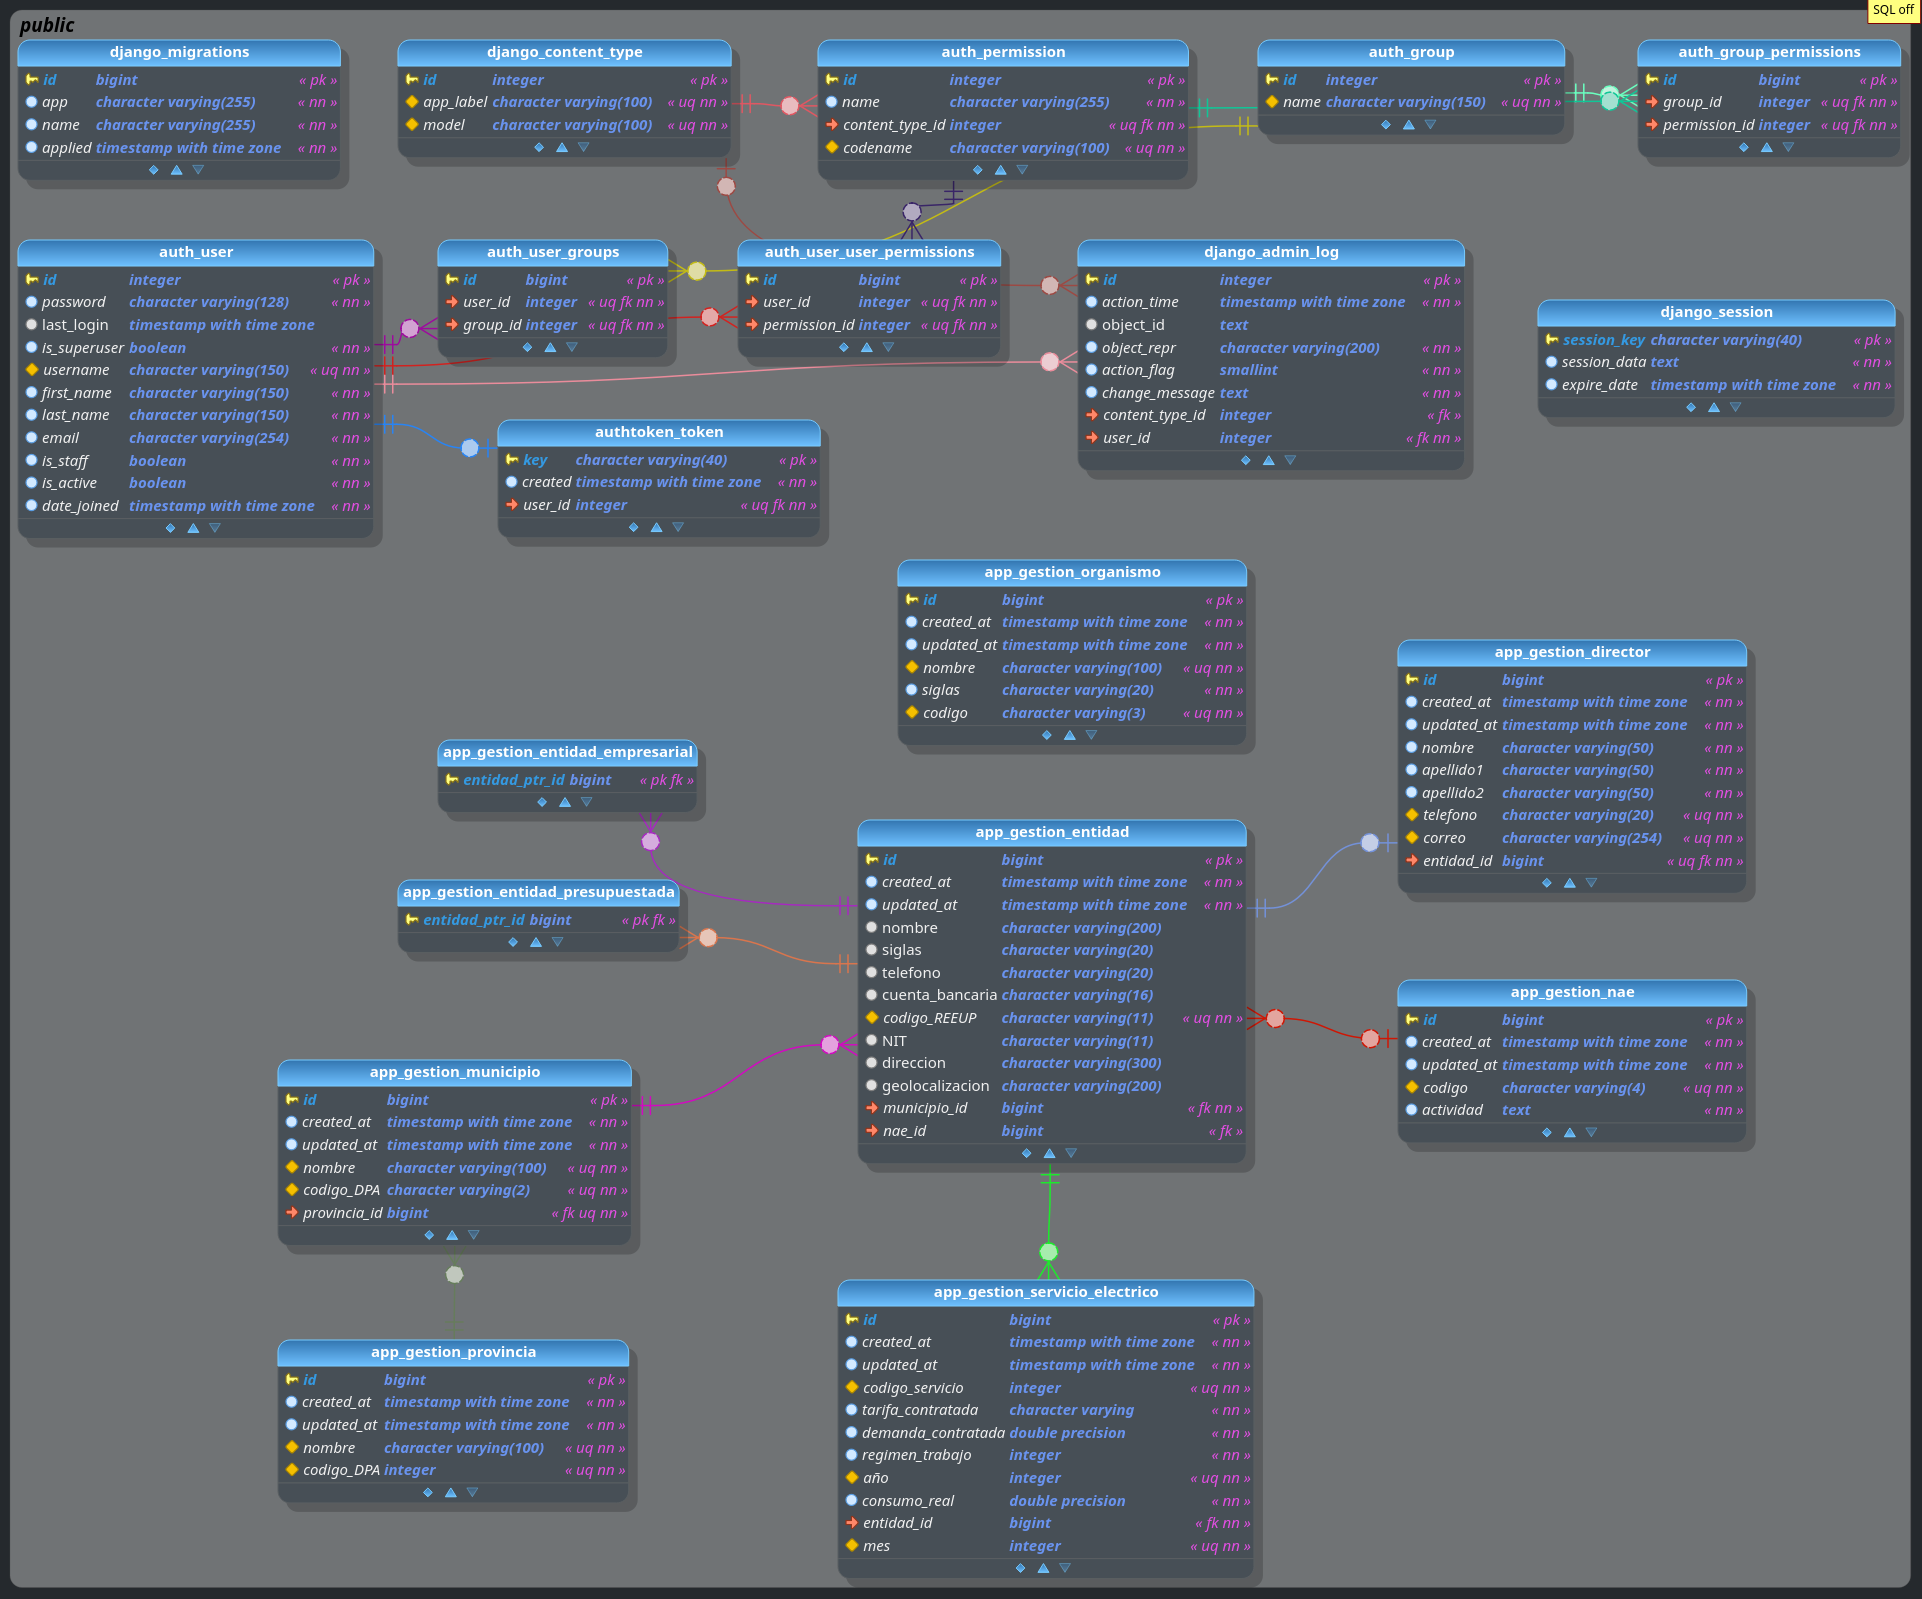
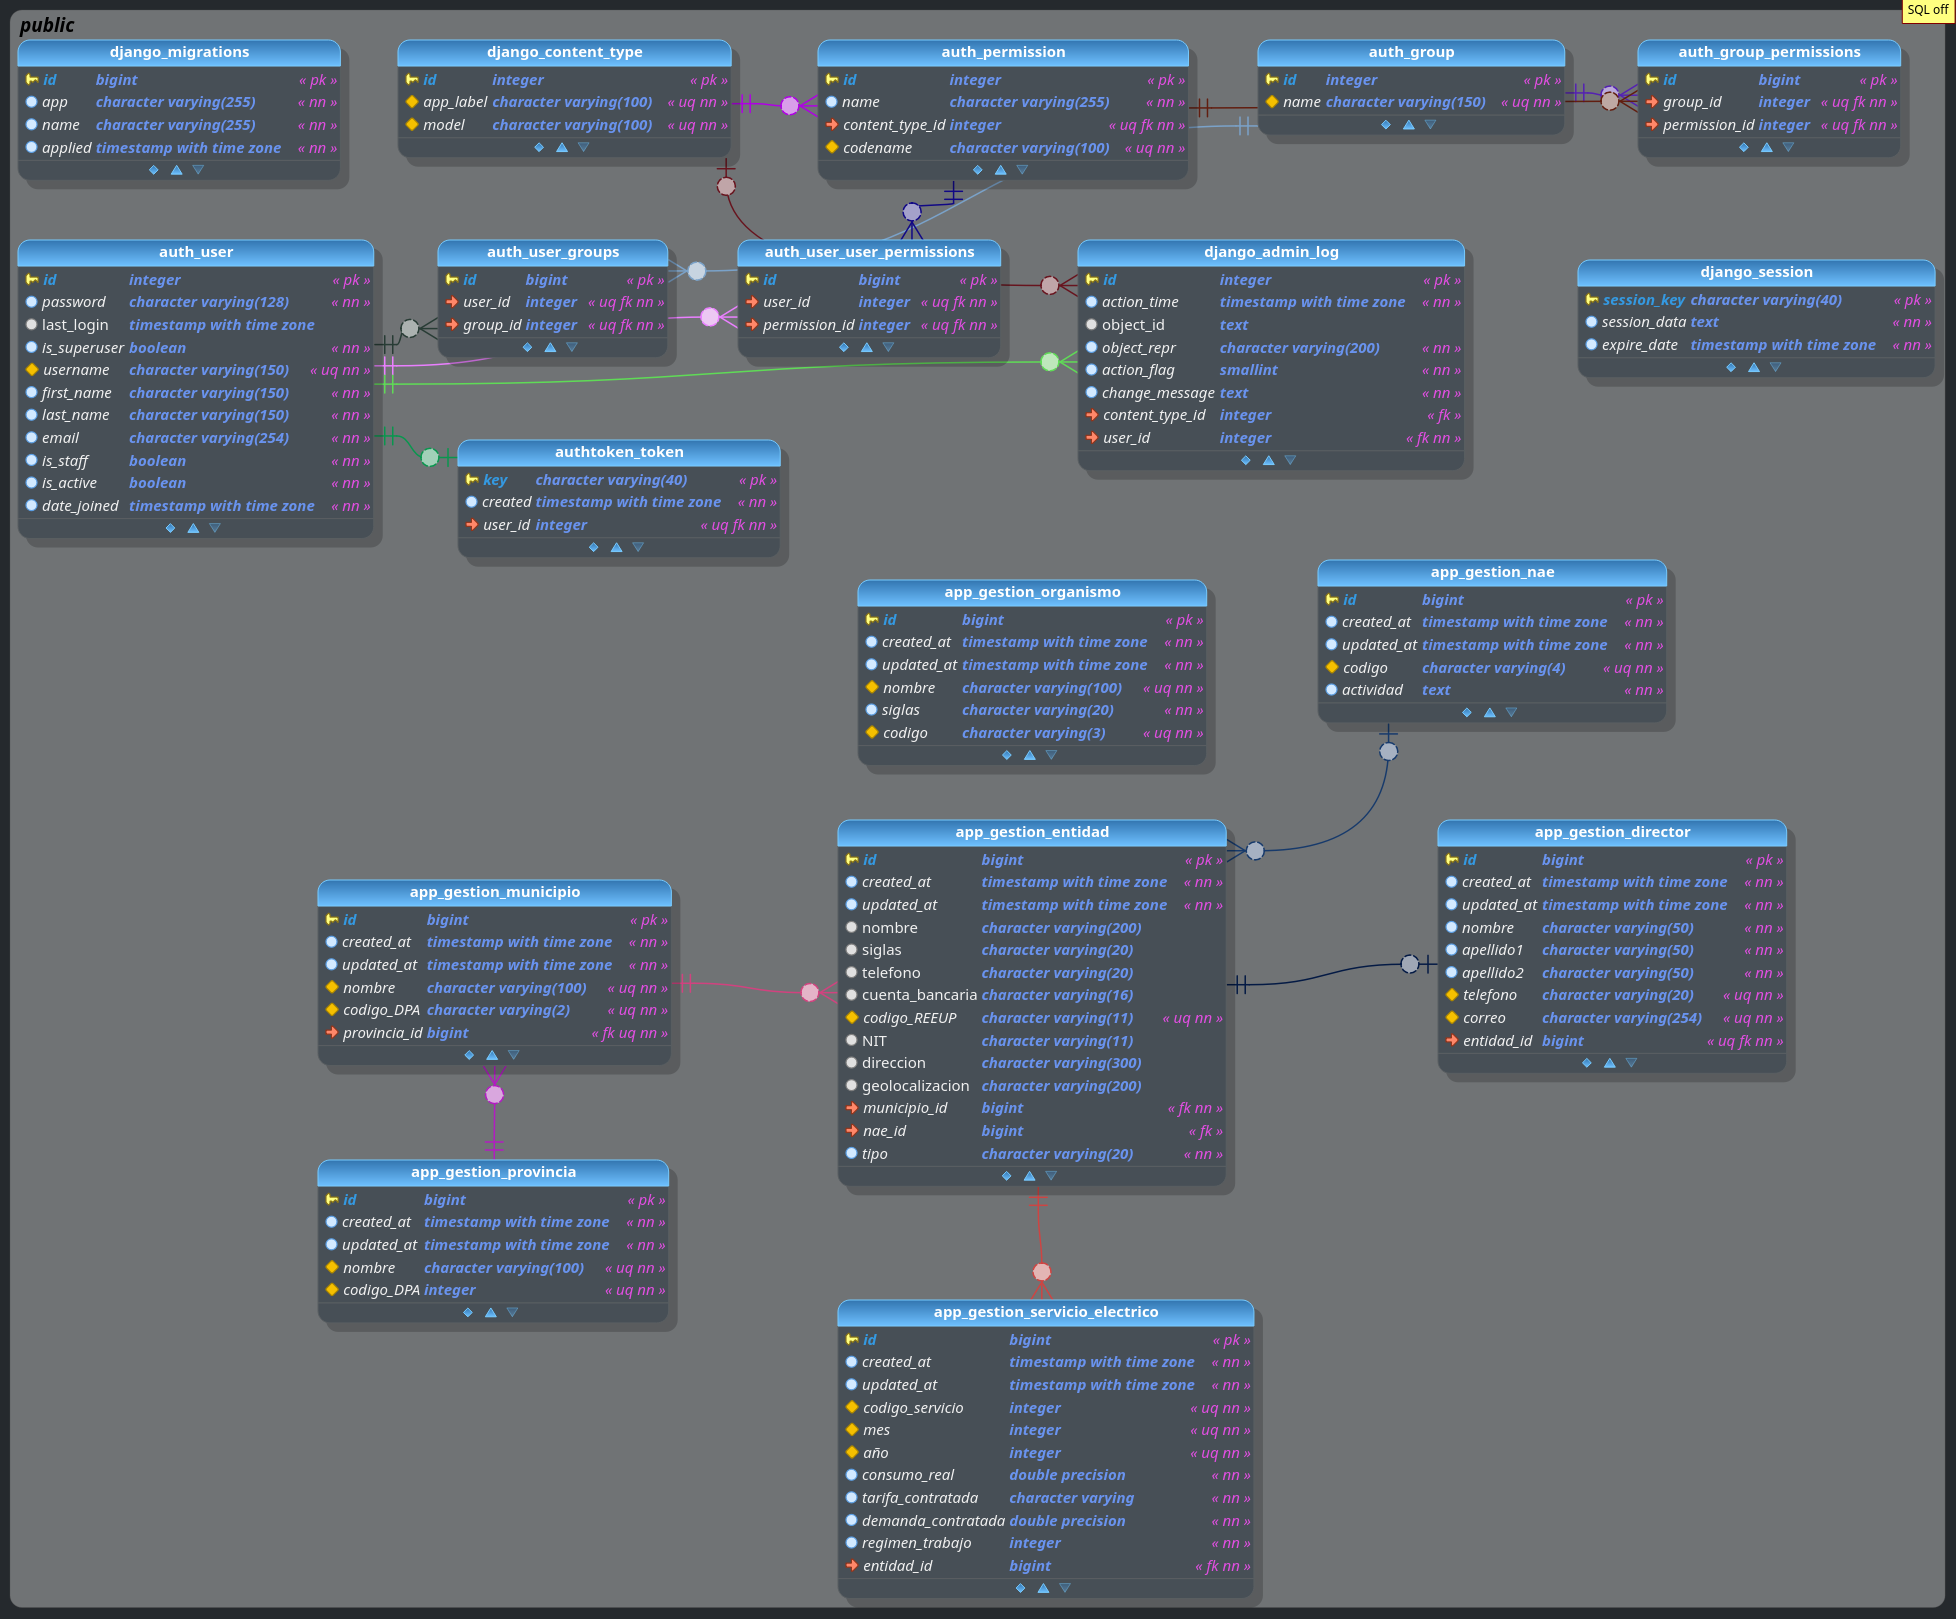
Actualizando README

diff --git a/README.md b/README.md
@@ -138,6 +138,19 @@ app_gestion/
 <br>
 
 
+**Consultas**
+
+<img src="img/consultas.png" alt="Página de consultas">
+<br>
+
+<img src="img/consultas_2.png" alt="Página de consultas">
+<br>
+
+
 **Modelo lógico de la aplicación**
 
 <img src="img/modelo_lógico.png" alt="Modelo lógico de la aplicación">
+<br>
+
+<img src="img/modelo_lógico2.png" alt="Modelo lógico de la aplicación">
+